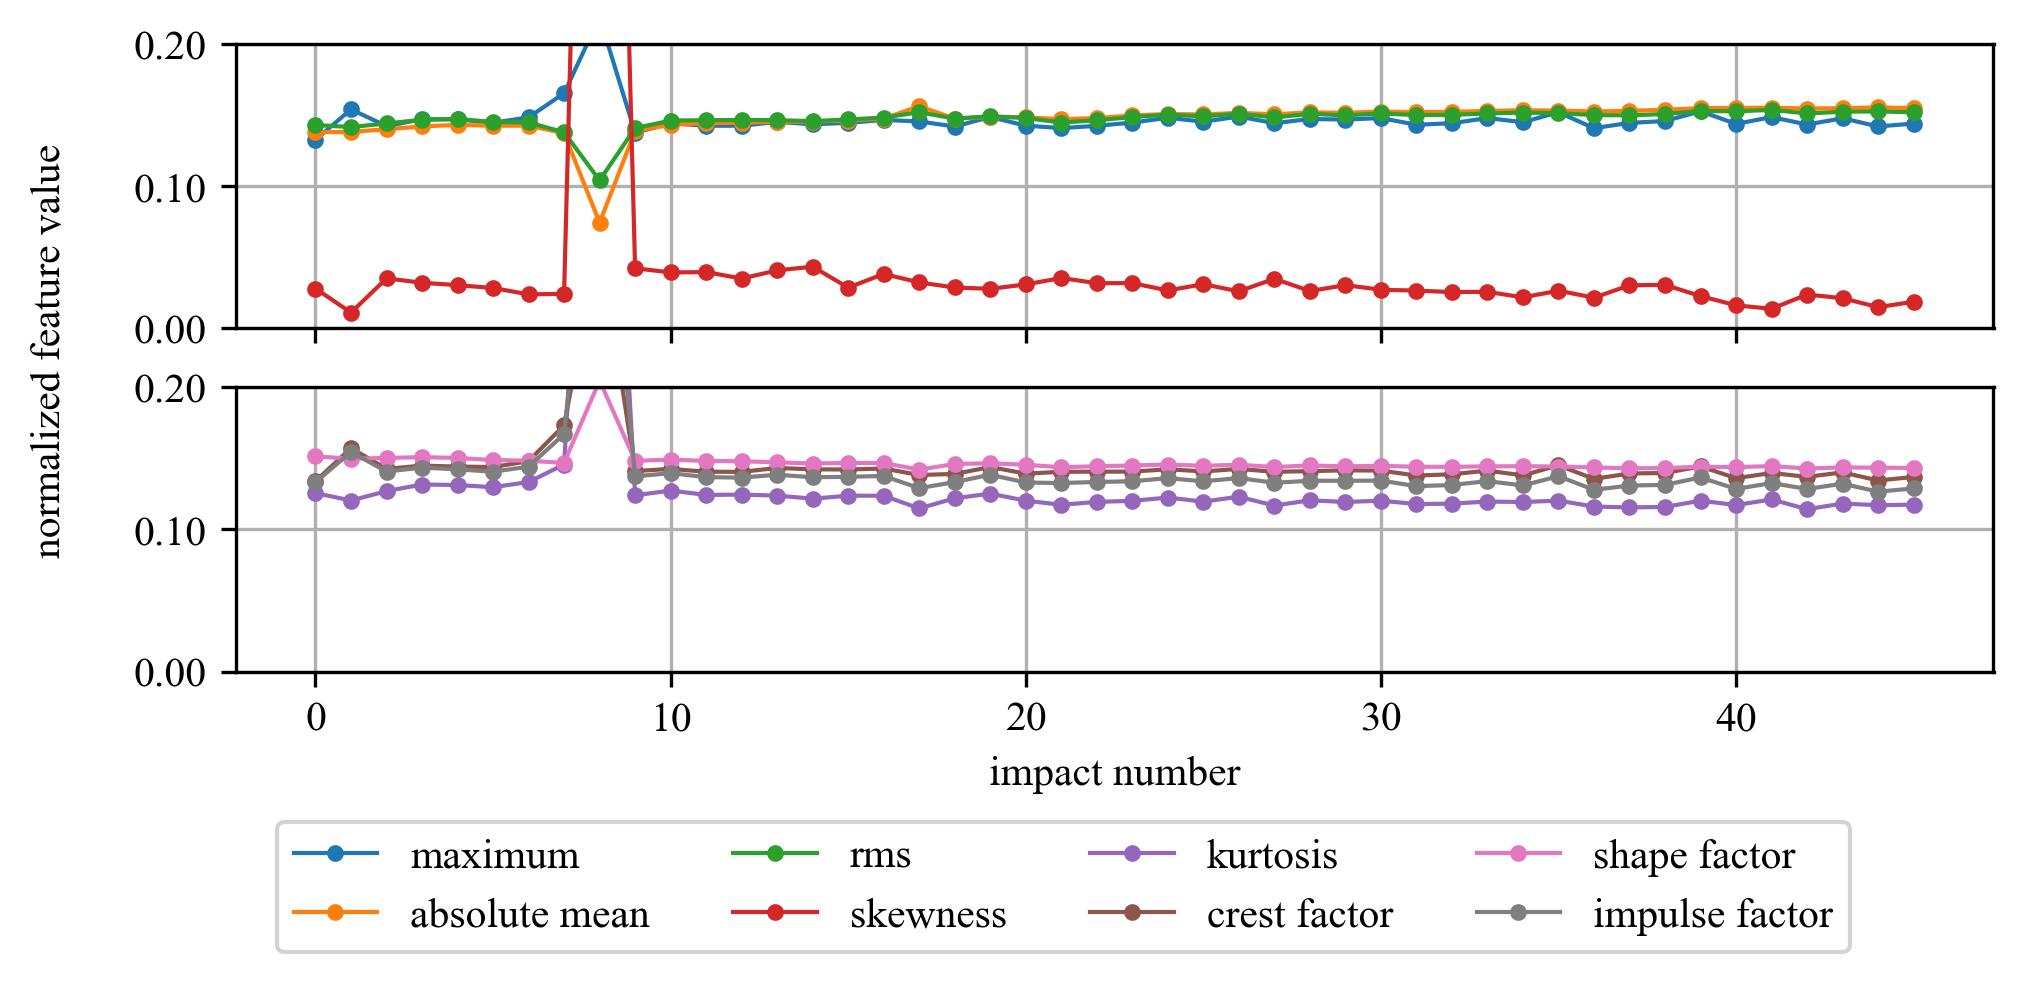
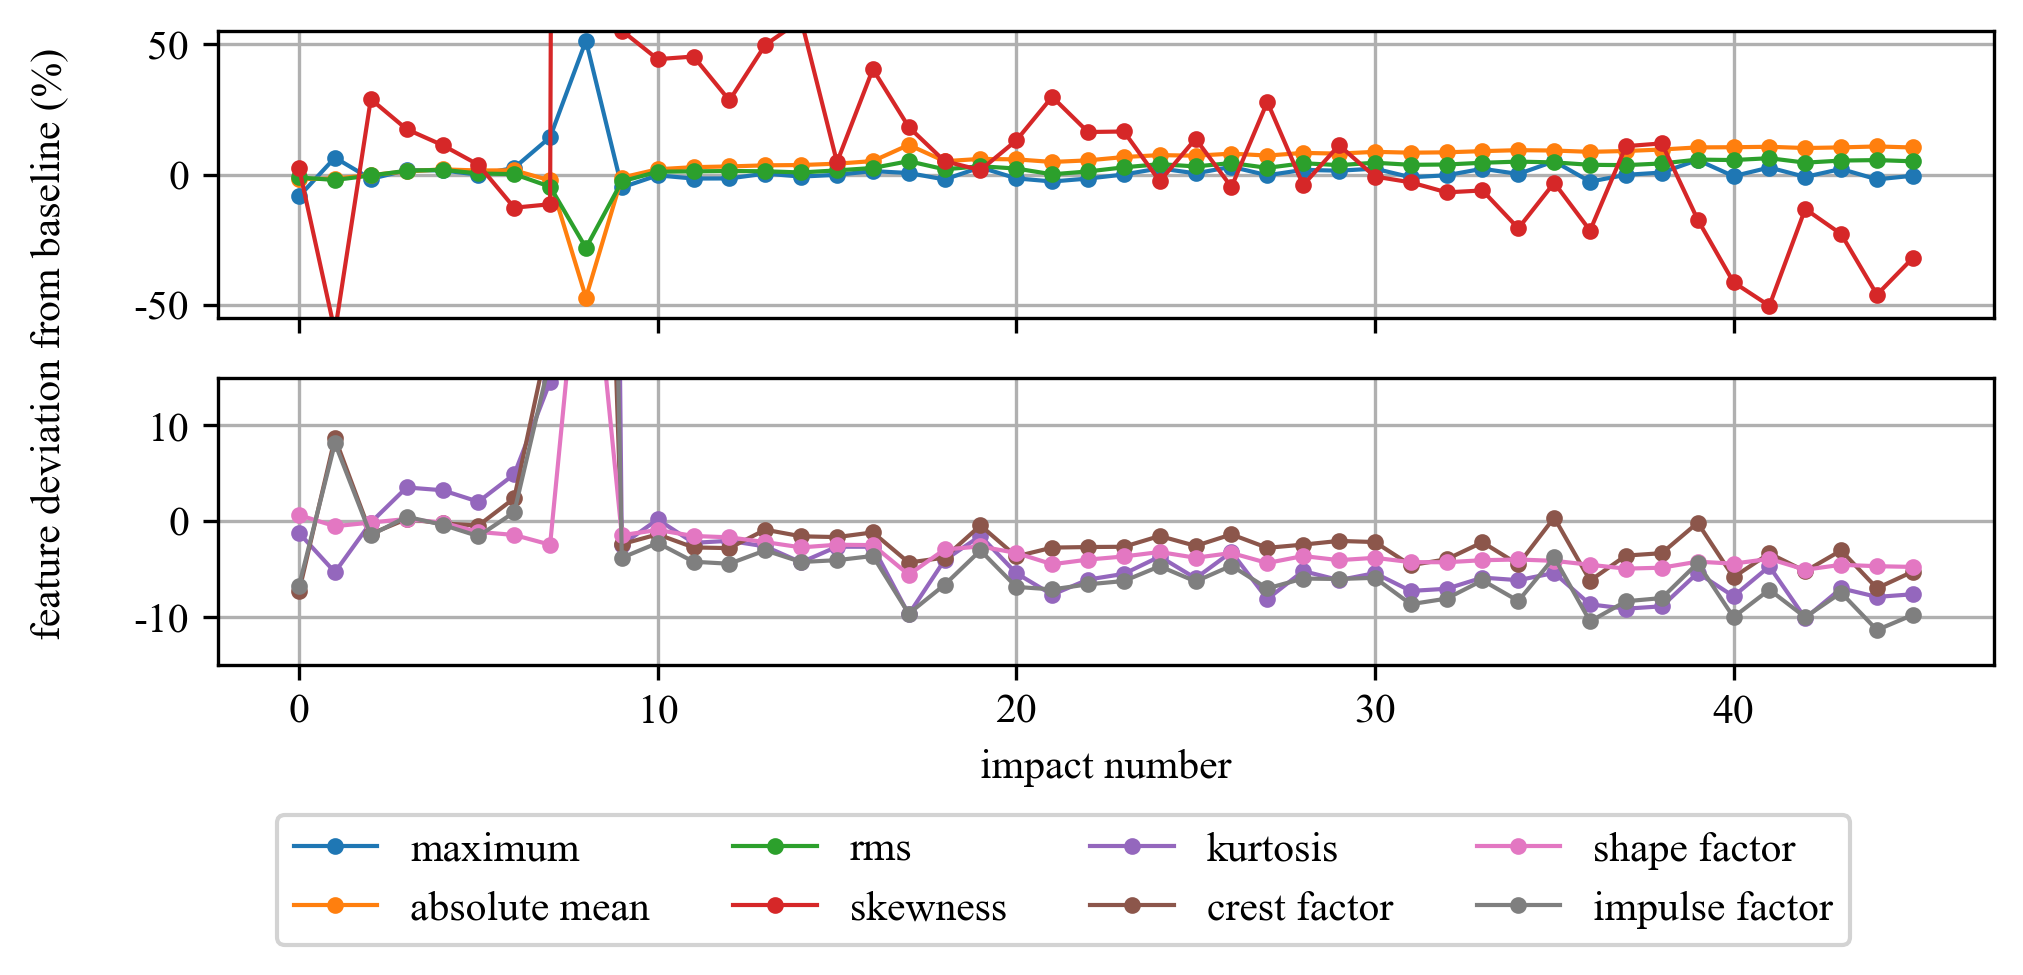
Plotting Updated

diff --git a/Analysis/IMAC_plotting.py b/Analysis/IMAC_plotting.py
@@ -161,6 +161,12 @@ plt.savefig(os.path.join(save_path, "selected_boards_resist.png"), dpi=300, bbox
 plt.show()
 
 # %% FEATURE EXTRACTION
+y_ranges = {
+    "Board 1": {"top": (-55, 55), "bottom": (-15, 15)},
+    "Board 2": {"top": (-15, 15), "bottom": (-15, 15)},
+    "Board 3": {"top": (-55, 55), "bottom": (-15, 50)}
+}
+
 for i, board in enumerate(data_list):
     if i in only_boards:
         board_folder = os.path.join(file_path, board)
@@ -176,8 +182,10 @@ for i, board in enumerate(data_list):
                 data_small = data_zeroed[:(current_max_index + 11000)]
             else:
                 data_small = data_zeroed[(current_max_index - 1000):(current_max_index + 11000)]
+
             abs_mean = np.mean(np.abs(data_small))
             rms_val = np.sqrt(np.mean(np.square(data_small)))
+
             features[0].append(current_max)
             features[1].append(abs_mean)
             features[2].append(rms_val)
@@ -188,27 +196,44 @@ for i, board in enumerate(data_list):
             features[7].append(current_max / abs_mean if abs_mean != 0 else 0)
             impacts.append(j)
 
-        features_normalized = [preprocessing.normalize([f])[0] for f in features]
+        # --- Convert to % deviation from baseline (first 5 points) ---
+        features_percent = []
+        for f in features:
+            f = np.array(f)
+            baseline = np.mean(f[:5]) if np.mean(f[:5]) != 0 else 1.0
+            f_percent = 100 * (f - baseline) / baseline
+            features_percent.append(f_percent)
 
+        # --- Plot ---
         fig, axs = plt.subplots(2, 1, figsize=(6.5, 3), sharex=True)
         colors = itertools.cycle(cm.tab10.colors)
         feature_colors = [next(colors) for _ in feature_names]
 
+        # First 4 features
         for idx in range(4):
-            axs[0].plot(impacts, features_normalized[idx], marker='.', linestyle='-', linewidth=1,
+            axs[0].plot(impacts, features_percent[idx], marker='.', linestyle='-', linewidth=1,
                         label=feature_names[idx], color=feature_colors[idx])
         axs[0].grid(True)
 
+        # Last 4 features
         for idx in range(4, 8):
-            axs[1].plot(impacts, features_normalized[idx], marker='.', linestyle='-', linewidth=1,
+            axs[1].plot(impacts, features_percent[idx], marker='.', linestyle='-', linewidth=1,
                         label=feature_names[idx], color=feature_colors[idx])
         axs[1].set_xlabel("impact number")
         axs[1].grid(True)
 
-        fig.text(-0.03, 0.6, "normalized feature value", va="center", rotation="vertical")
-        for ax in axs:
-            ax.yaxis.set_major_formatter(mticker.FormatStrFormatter("%.2f"))
+        # Apply custom ranges (per board, per subplot)
+        save_name = board_save_map[board]  # Board 1,2,3
+        board_ranges = y_ranges.get(save_name, {"top": (-50, 50), "bottom": (-50, 50)})
+        axs[0].set_ylim(*board_ranges["top"])
+        axs[1].set_ylim(*board_ranges["bottom"])
 
+        fig.text(-0.03, 0.6, "feature deviation from baseline (%)", va="center", rotation="vertical")
+
+        for ax in axs:
+            ax.yaxis.set_major_formatter(mticker.FormatStrFormatter("%.0f"))
+
+        # Legend
         handles, labels = [], []
         for ax in axs:
             h, l = ax.get_legend_handles_labels()
@@ -217,16 +242,117 @@ for i, board in enumerate(data_list):
 
         fig.legend(handles, labels, loc="upper center", bbox_to_anchor=(0.5, 0.1), ncol=4,
                    facecolor="white", edgecolor="lightgray", framealpha=1, frameon=True)
+
         plt.tight_layout(rect=[0, 0.05, 1, 1])
-        
-        axs[0].set_ylim(0, 0.2)
-        axs[1].set_ylim(0, 0.2)
-        
-        save_name = board_save_map[board]  # Board 1,2,3
+
         plt.savefig(os.path.join(save_path, f"{save_name}_feature_subplots.png"),
                     dpi=300, bbox_inches="tight")
         plt.show()
+        
+# %% FEATURE PLOTTING (SPIE-style stacked traces with manual outlier removal)
 
+import numpy.ma as ma
+
+# vertical spacing between traces
+y_offset = 1.0  
+
+# dictionary of outlier indices per board/feature (keys must be lowercase)
+outliers = {
+    "board 1": {
+        "impulse factor": [8], "shape factor": [8], "crest factor": [8],
+        "kurtosis": [8], "rms": [8], "absolute mean": [8], "maximum": [8]
+    },
+    # "board 2": {},
+    "board 3": { 
+        "impulse factor": [58], "shape factor": [58], "crest factor": [58],
+        "kurtosis": [58], "rms": [58], "absolute mean": [58], "maximum": [58]}
+}
+
+for i, board in enumerate(data_list):
+    if i in only_boards:
+        board_folder = os.path.join(file_path, board)
+        lvm_files = sorted([f for f in os.listdir(board_folder) if f.endswith(".lvm")])
+
+        # --- Extract features ---
+        impacts, features = [], [[] for _ in feature_names]
+        for j, filename in enumerate(lvm_files):
+            data = np.loadtxt(os.path.join(board_folder, filename), usecols=(2)).tolist()
+            data_zeroed = [val - data[0] for val in data]
+            current_max_index = np.argmax([abs(x) for x in data_zeroed])
+            current_max = abs(data_zeroed[current_max_index])
+            if current_max_index < 1000:
+                data_small = data_zeroed[:(current_max_index + 11000)]
+            else:
+                data_small = data_zeroed[(current_max_index - 1000):(current_max_index + 11000)]
+
+            abs_mean = np.mean(np.abs(data_small))
+            rms_val = np.sqrt(np.mean(np.square(data_small)))
+
+            features[0].append(current_max)
+            features[1].append(abs_mean)
+            features[2].append(rms_val)
+            features[3].append(skew(data_small))
+            features[4].append(kurtosis(data_small))
+            features[5].append(current_max / rms_val if rms_val != 0 else 0)
+            features[6].append(rms_val / abs_mean if abs_mean != 0 else 0)
+            features[7].append(current_max / abs_mean if abs_mean != 0 else 0)
+            impacts.append(j)
+
+        save_name = board_save_map[board].lower()
+
+        # --- Interpolate over outliers instead of dropping ---
+        board_outliers = outliers.get(save_name, {})
+        for f_idx, f_name in enumerate(feature_names):
+            f_key = f_name.lower()
+            if f_key in board_outliers:
+                bad_idx = board_outliers[f_key]
+                for idx in bad_idx:
+                    if idx < len(features[f_idx]):
+                        if 0 < idx < len(features[f_idx]) - 1:
+                            # linear interpolation between neighbors
+                            left = features[f_idx][idx - 1]
+                            right = features[f_idx][idx + 1]
+                            if not np.isnan(left) and not np.isnan(right):
+                                features[f_idx][idx] = (left + right) / 2.0
+                            else:
+                                features[f_idx][idx] = np.nan
+                        else:
+                            # fallback: copy nearest neighbor
+                            features[f_idx][idx] = features[f_idx][idx - 1] if idx > 0 else features[f_idx][idx + 1]
+
+        # --- Normalize each feature relative to baseline ---
+        norms = []
+        for f in features:
+            f = np.array(f, dtype=float)
+            baseline = np.nanmean(f[:5]) if np.nanmean(f[:5]) != 0 else 1.0
+            f_percent = 100 * (f - baseline) / baseline
+            f_percent = np.clip(f_percent, -50, 50)
+            f_min, f_max = np.nanmin(f_percent), np.nanmax(f_percent)
+            f_norm = (f_percent - f_min) / (f_max - f_min + 1e-9)
+            norms.append(f_norm)
+
+        # --- Plot stacked traces ---
+        fig, ax = plt.subplots(figsize=(6.5, 3.5))
+        j = len(norms) - 1
+        for trace, fname in zip(norms[::-1], feature_names[::-1]):  # reverse for correct order
+            offset_trace = trace + j * y_offset
+            trace_masked = ma.masked_invalid(offset_trace)
+            ax.plot(np.arange(len(trace)), trace_masked,
+                    label=fname.lower(), linewidth=0.5)
+            j -= 1
+
+        # y-ticks as lowercase feature labels
+        ax.set_yticks(np.arange(0, len(feature_names), 1))
+        ax.set_yticklabels([f.lower() for f in feature_names])
+        ax.set_xlabel("impact number")
+        ax.set_ylabel("normalized feature traces")
+        ax.grid(True, zorder=1)
+
+        plt.tight_layout()
+        plt.savefig(os.path.join(save_path, f"{save_name}_features_stacked.png"),
+                    dpi=300, bbox_inches="tight")
+        plt.show()
+        
 # %% Test Profile (example from Board 1 / true 4.3)
 board_folder = os.path.join(file_path, "Board 1")
 file_name = "HM4_b03_100mO_#8_12in_16thflt_wR2841_06.lvm"
@@ -238,8 +364,8 @@ excitation -= excitation[0]; response -= response[0]
 time_ms = time * 1000  
 
 plt.figure(figsize=(6.5, 2.5))
-plt.plot(time_ms, response, label="response", linewidth=1)
-plt.plot(time_ms, excitation, label="excitation", linewidth=1)
+plt.plot(time_ms, response, label="response", linewidth=0.5)
+plt.plot(time_ms, excitation, label="excitation", linewidth=0.5)
 plt.xlim(0, 40)   # since 0.06 s = 60 ms
 plt.xlabel("time (ms)"); plt.ylabel("acceleration (g)")
 plt.legend(loc="upper right", facecolor="white", edgecolor="lightgray", framealpha=1, frameon=True)
